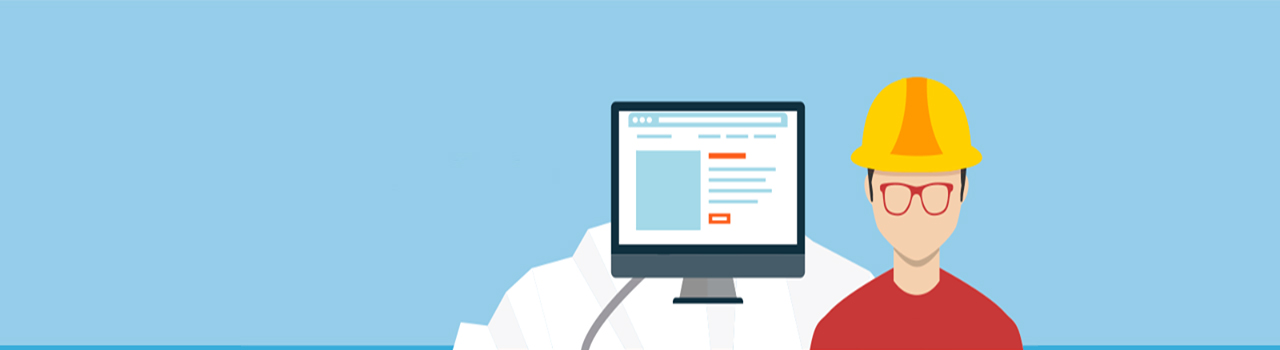
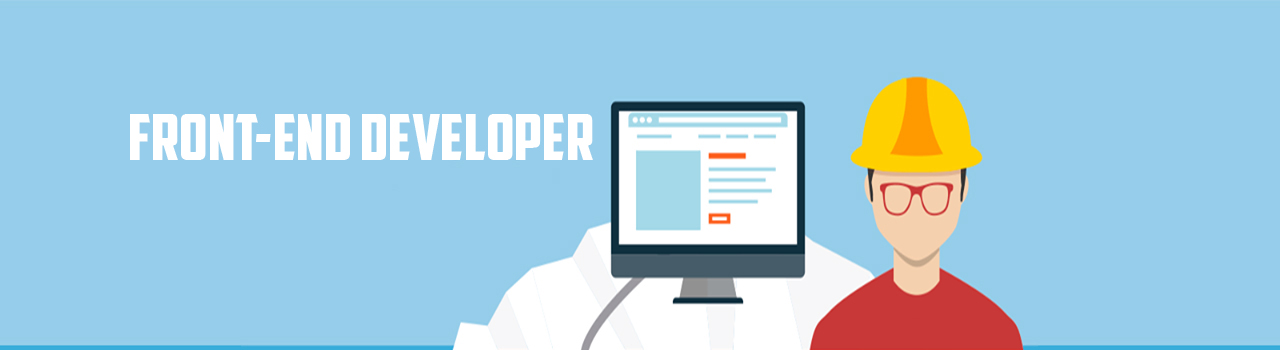
editart

Changed region(s): [[0.0938, 0.3143, 0.4688, 0.4571]]

diff --git a/article.html b/article.html
@@ -7,7 +7,7 @@
     <title>Article </title>
     <meta name="description" content="">
     <meta name="viewport" content="width=device-width, initial-scale=1">
-    <link rel="shortcut icon" type="image/x-icon" href="assets/img/MANA-LAB2-Tab2.ico"  />
+    <link rel="shortcut icon" type="image/x-icon" href="assets/img/logo.ico">
 
     <!-- CSS here -->
     <link rel="stylesheet" href="assets/css/bootstrap.min.css">
@@ -24,7 +24,8 @@
     <link rel="stylesheet" href="assets/css/responsive.css">
 
     <link href="assets/css/stylish-portfolio.min.css" rel="stylesheet">
-    
+
+ 
 </head>
 
 <body>
@@ -39,6 +40,7 @@
         </div>
     </div>
   </div>
+
   <header>
       <!-- Header Start -->
       <div class="header-area header-transparent">
@@ -79,40 +81,29 @@
     </header>
     <main>
         <!--? Hero Start -->
-        <div class="slider-area3">
-            <div class="slider-height2 hero-overly d-flex align-items-center">
-                <div class="container">
-                    <div class="row">
-                        <div class="col-xl-12">
-                            <div class="hero-cap hero-cap2 text-center pt-80">
-                                <h2>Article</h2>
-                            </div>
-                        </div>
-                    </div>
-                </div>
-            </div>
-        </div>
-        <!-- Hero End -->
+
+        <!-- Herzzzzzzzzzzzzzzzzzzzzzzzzzzzzzzo End -->
         <!--================Blog Area =================-->
-        <section class="blog_area section-padding">
-            <div class="container">
+         <!--================Blog Area =================-->
+         <section class="blog_area section-padding">
+            <div class="container ">
                 <div class="row">
-                    <div class="col-lg-8 mb-5 mb-lg-0">
+                    <div class="col-lg-12 mb-5 mb-lg-0">
                         <div class="blog_left_sidebar">
                             <section class="content-section" id="portfolio">
                                 <div class="accordion" id="accordionExample">
                                     <div class="container" id="headingOne">
                                         <div class="">
                                             <div class="col-lg-12">
-                                                <a class="portfolio-item" data-toggle="collapse" href="#collapseOne"
+                                                <a class="portfolio-item mb-0" data-toggle="collapse" href="#collapseOne"
                                                     role="button" aria-expanded="true" aria-controls="collapseOne">
                                                     <span class="caption">
                                                         <span class="caption-content">
                                                            
-                                                            <h1 align = 'left'>Front-End developer</h1>
+                                                            
                                                         </span>
                                                     </span>
-                                                    <img class="img-fluid" src="assets/img/blog/portfolio-1.jpg" alt="">
+                                                    <img class="img-fluid" style="width: 100vw;" src="assets/img/blog/portfolio-1.jpg" alt="">
                                                 </a>
                                             </div>
                                             <div id="collapseOne" class="collapse" aria-labelledby="headingOne"
@@ -129,7 +120,7 @@
                                                             <br>● Creative
                                                             <br>● Photoshop
                                                             <br>● illustrator
-                                                            <br>● Skill Web Developer (HTML, CSS, JavaScript, Framework ต่างๆ)
+                                                           <br>● Skill Web Developer (HTML, CSS, JavaScript, Framework ต่างๆ)
                                                         </p>
                                                         <a href="https://1th.me/HkX6R">ข้อมูลอ้างอิง</a>
 
@@ -143,12 +134,12 @@
                                                     role="button" aria-expanded="true" aria-controls="collapseOne">
                                                     <span class="caption">
                                                         <span class="caption-content">
-                                                            <h1 ><font color="white"> Back-End developer </font></h1>
+                                                           
                             
                                                           
                                                         </span>
                                                     </span>
-                                                    <img class="img-fluid" src="assets/img/blog/portfolio-2.jpg" alt="">
+                                                    <img  class="img-fluid" style="width: 100vw;" src="assets/img/blog/portfolio-2.jpg" alt="">
                                                 </a>
                                             </div>
 
@@ -181,144 +172,13 @@
                                 </div>
                             </section>
 
-                            <article class="blog_item">
-                                <div class="blog_item_img">
-                                    <h2 style="color: #2d2d2d;">What is Software developer ?</h2>
-                                    <img class="card-img rounded-0" src="assets/img/blog/single_blog_1.jpg" alt="">
-                                    <a href="#" class="blog_item_date">
-                                        <h3>01</h3>
-                                        <p>DEV</p>
-                                    </a>
-                                </div>
-
-                                <div class="blog_details">
-
-                                    
-
-                                    <p>คือบุคคลที่เกี่ยวข้องกับกระบวนการวิศวกรรมซอฟต์แวร์เช่นในการออกแบบ การวางแผนพัฒนา
-                                        ซึ่งขอบเขตงานจะกว้างกว่าการเขียนโปรแกรม โดยอาจมีส่วนร่วมในระดับทั้งโครงงาน
-                                        แทนการดูแลส่วนของชิ้นงาน ซึ่งในกลุ่มนี้อาจรวมถึงโปรแกรมเมอร์ฟรีแลนซ์
-                                    </p>
-                                    <a href="https://1th.me/2MIG5">ข้อมูลอ้างอิง</a>
-
-                                </div>
-                            </article>
 
 
 
 
 
-                        </div>
                     </div>
-                    <div class="col-lg-4">
-                        <div class="blog_right_sidebar">
-
-                            <aside class="single_sidebar_widget popular_post_widget">
-                                <h3 class="widget_title" style="color: #2d2d2d;">Recent Post</h3>
-                                <div class="media post_item">
-                                    <img src="assets/img/post/post_1.png" alt="post">
-                                    <div class="media-body">
-                                        <a href="blog_details.html">
-                                            <h3 style="color: #2d2d2d;">From life was you fish...</h3>
-                                        </a>
-                                        <p>January 12, 2019</p>
-                                    </div>
-                                </div>
-                                <div class="media post_item">
-                                    <img src="assets/img/post/post_2.png" alt="post">
-                                    <div class="media-body">
-                                        <a href="blog_details.html">
-                                            <h3 style="color: #2d2d2d;">The Amazing Hubble</h3>
-                                        </a>
-                                        <p>02 Hours ago</p>
-                                    </div>
-                                </div>
-                                <div class="media post_item">
-                                    <img src="assets/img/post/post_3.png" alt="post">
-                                    <div class="media-body">
-                                        <a href="blog_details.html">
-                                            <h3 style="color: #2d2d2d;">Astronomy Or Astrology</h3>
-                                        </a>
-                                        <p>03 Hours ago</p>
-                                    </div>
-                                </div>
-                                <div class="media post_item">
-                                    <img src="assets/img/post/post_4.png" alt="post">
-                                    <div class="media-body">
-                                        <a href="blog_details.html">
-                                            <h3 style="color: #2d2d2d;">Asteroids telescope</h3>
-                                        </a>
-                                        <p>01 Hours ago</p>
-                                    </div>
-                                </div>
-                            </aside>
-                            <aside class="single_sidebar_widget tag_cloud_widget">
-                                <h4 class="widget_title" style="color: #2d2d2d;">Tag Clouds</h4>
-                                <ul class="list">
-                                    <li>
-                                        <a href="#">project</a>
-                                    </li>
-                                    <li>
-                                        <a href="#">love</a>
-                                    </li>
-                                    <li>
-                                        <a href="#">technology</a>
-                                    </li>
-                                    <li>
-                                        <a href="#">travel</a>
-                                    </li>
-                                    <li>
-                                        <a href="#">restaurant</a>
-                                    </li>
-                                    <li>
-                                        <a href="#">life style</a>
-                                    </li>
-                                    <li>
-                                        <a href="#">design</a>
-                                    </li>
-                                    <li>
-                                        <a href="#">illustration</a>
-                                    </li>
-                                </ul>
-                            </aside>
-
-                            <aside class="single_sidebar_widget instagram_feeds">
-                                <h4 class="widget_title" style="color: #2d2d2d;">Instagram Feeds</h4>
-                                <ul class="instagram_row flex-wrap">
-                                    <li>
-                                        <a href="#">
-                                            <img class="img-fluid" src="assets/img/post/post_5.png" alt="">
-                                        </a>
-                                    </li>
-                                    <li>
-                                        <a href="#">
-                                            <img class="img-fluid" src="assets/img/post/post_6.png" alt="">
-                                        </a>
-                                    </li>
-                                    <li>
-                                        <a href="#">
-                                            <img class="img-fluid" src="assets/img/post/post_7.png" alt="">
-                                        </a>
-                                    </li>
-                                    <li>
-                                        <a href="#">
-                                            <img class="img-fluid" src="assets/img/post/post_8.png" alt="">
-                                        </a>
-                                    </li>
-                                    <li>
-                                        <a href="#">
-                                            <img class="img-fluid" src="assets/img/post/post_9.png" alt="">
-                                        </a>
-                                    </li>
-                                    <li>
-                                        <a href="#">
-                                            <img class="img-fluid" src="assets/img/post/post_10.png" alt="">
-                                        </a>
-                                    </li>
-                                </ul>
-                            </aside>
-
-
+                   
 
                         </div>
                     </div>

diff --git a/assets/css/stylish-portfolio.min.css b/assets/css/stylish-portfolio.min.css
@@ -33,6 +33,7 @@ h5,
 h6 {
   font-weight: 700;
 }
+
 .text-faded {
   color: rgba(255, 255, 255, 0.7);
 }
@@ -91,6 +92,7 @@ h6 {
   margin: 0;
   padding: 0;
 }
+
 @media (min-width: 992px) {
   .masthead {
     height: 100vh;
@@ -282,7 +284,6 @@ footer.footer .social-link:hover {
 
 a:active,
 a:focus,
-
 .btn-primary {
   background-color: #1d809f !important;
   border-color: #1d809f !important;
